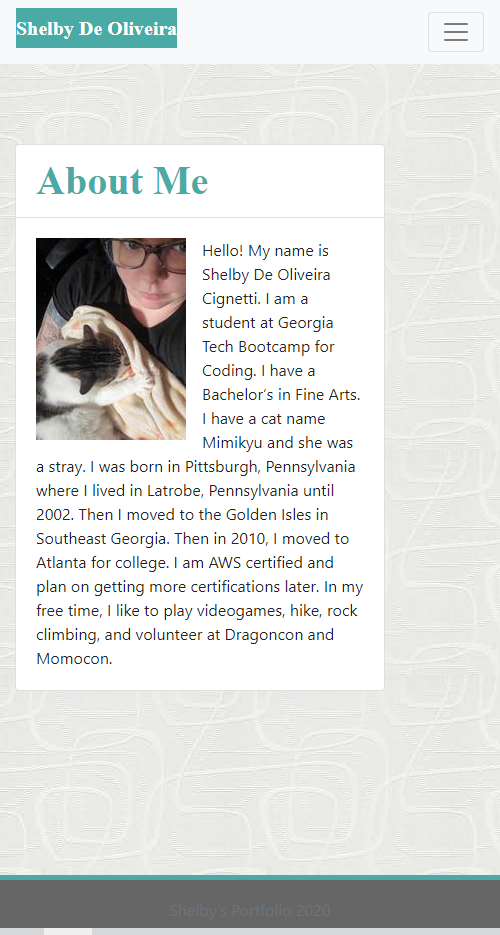
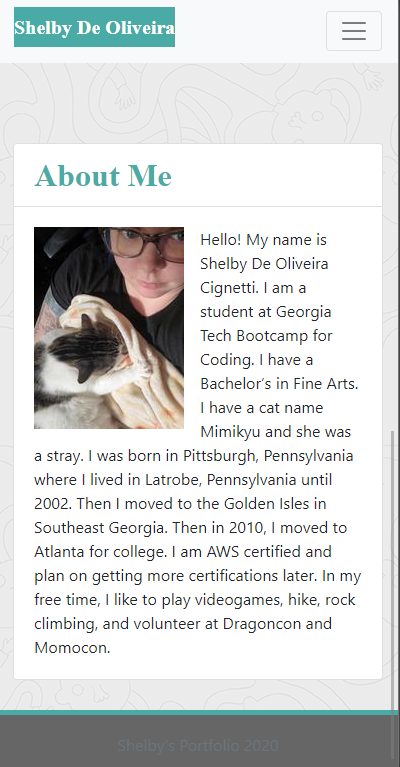
added screenshots and description to the readme

diff --git a/assets/css/base.css b/assets/css/base.css
@@ -1,6 +1,6 @@
 /* Common section*/
 
-h2 {
+h1, h2 {
     font-family: Times New Roman;
 }
 
@@ -59,8 +59,6 @@ main {
 @media only screen and (min-width: 400px) {
     main {
         max-width: 400px;
-    }
-    #main-content {
     }
 }
 

diff --git a/README.md b/README.md
@@ -2,6 +2,11 @@
 
 ## Description 
 
+This is my portfolio site. It currently uses html, bootstrap and some minor css. The site is configured to be mobile friendly.
+
+Future upgrades include:
+* Implementing javascript for [contact.html](contact.html) to allow people to contact me through email.
+* Adding pictures to my projects in my [portfolio.html](portfolio.html).
 
 ## Installation
 
@@ -21,13 +26,66 @@ To view this site live [click here.](https://shelb-doc.github.io/responsive-port
 
 To view this locally, clone the repository, and open [index.html](index.html) with your browser of choice.
 
+## Mobile vs. Desktop
+Here we have some screenshots to showcase a comparison of my site in different aspect ratios:
+
+### [index.html](index.html)
+
+#### 400px
+<p align="center">
+  <img alt="index page @400px" src="./assets/screenshots/aboutme-400.png">
+</p>
+
+#### 768px
+<p align="center">
+  <img alt="index page @400px" src="./assets/screenshots/aboutme-768.png">
+</p>
+
+#### 998px
+<p align="center">
+  <img alt="index page @400px" src="./assets/screenshots/aboutme-998.png">
+</p>
+
+### [contact.html](contact.html)
+
+#### 400px
+<p align="center">
+  <img alt="index page @400px" src="./assets/screenshots/contact-400.png">
+</p>
+
+#### 768px
+<p align="center">
+  <img alt="index page @400px" src="./assets/screenshots/contact-768.png">
+</p>
+
+#### 998px
+<p align="center">
+  <img alt="index page @400px" src="./assets/screenshots/contact-998.png">
+</p>
+
+### [portfolio.html](portfolio.html)
+
+#### 400px
+<p align="center">
+  <img alt="index page @400px" src="./assets/screenshots/portfolio-400.png">
+</p>
+
+#### 768px
+<p align="center">
+  <img alt="index page @400px" src="./assets/screenshots/portfolio-768.png">
+</p>
+
+#### 998px
+<p align="center">
+  <img alt="index page @400px" src="./assets/screenshots/portfolio-998.png">
+</p>
 
 ## Credits
 
 Thank you to my cat Mimikyu for being my Rubber Ducky.
 
 Thank you to my Testers
-
+* Leo De Oliveira Dias
 
 ## License
 
